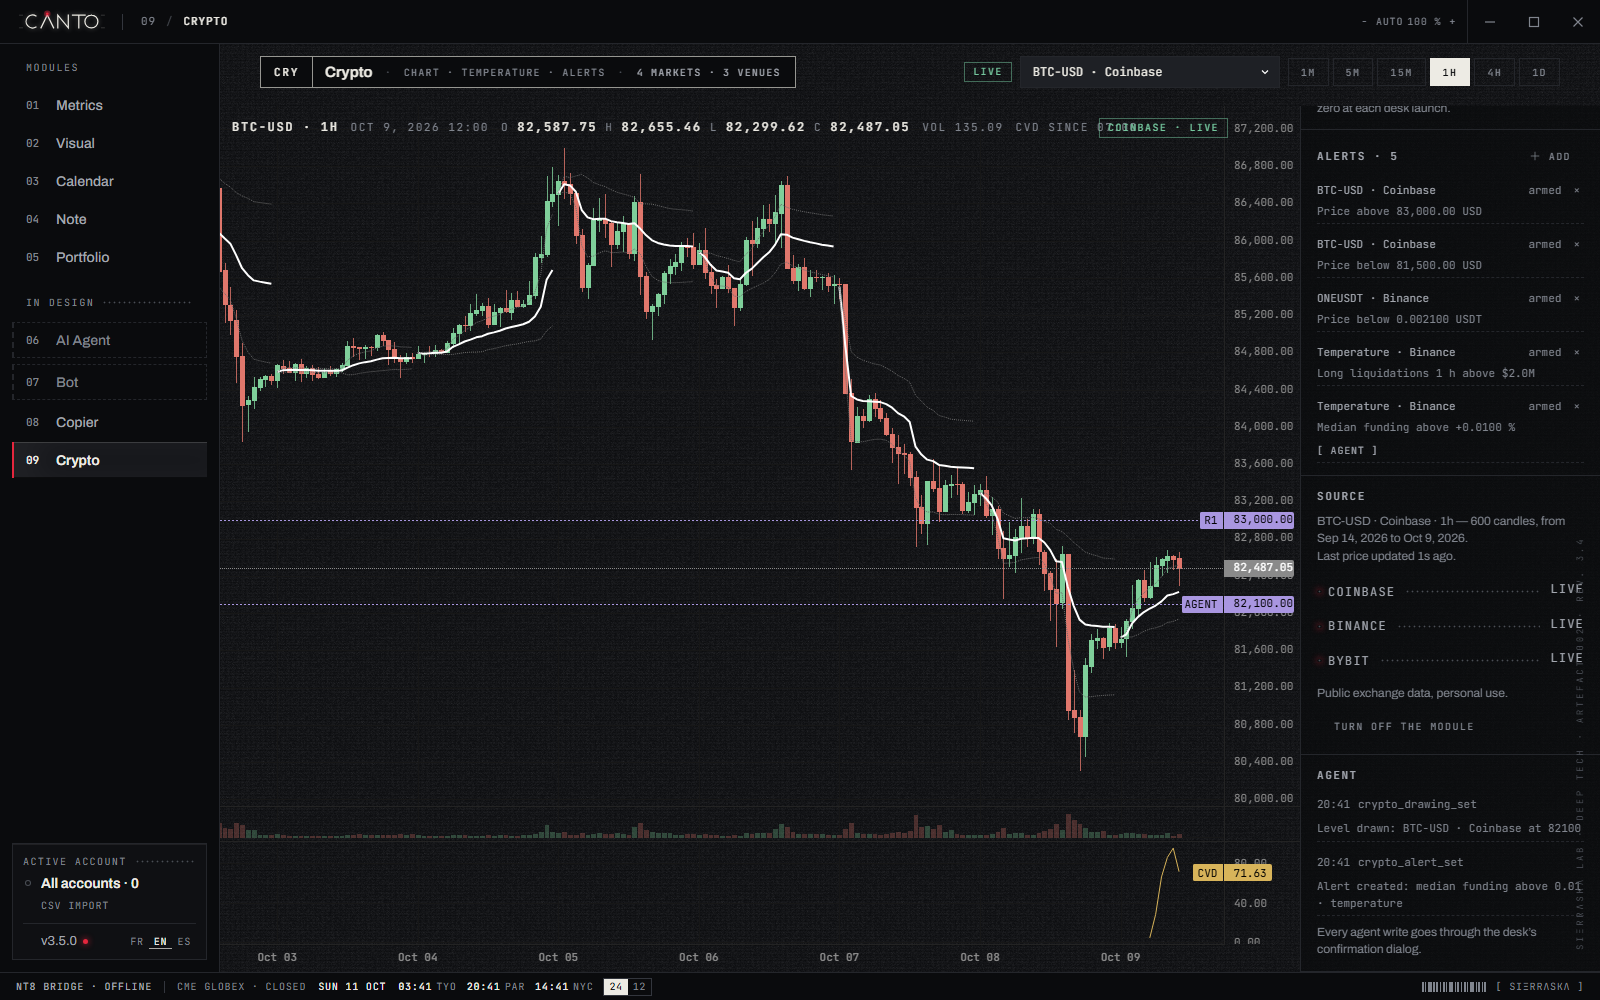
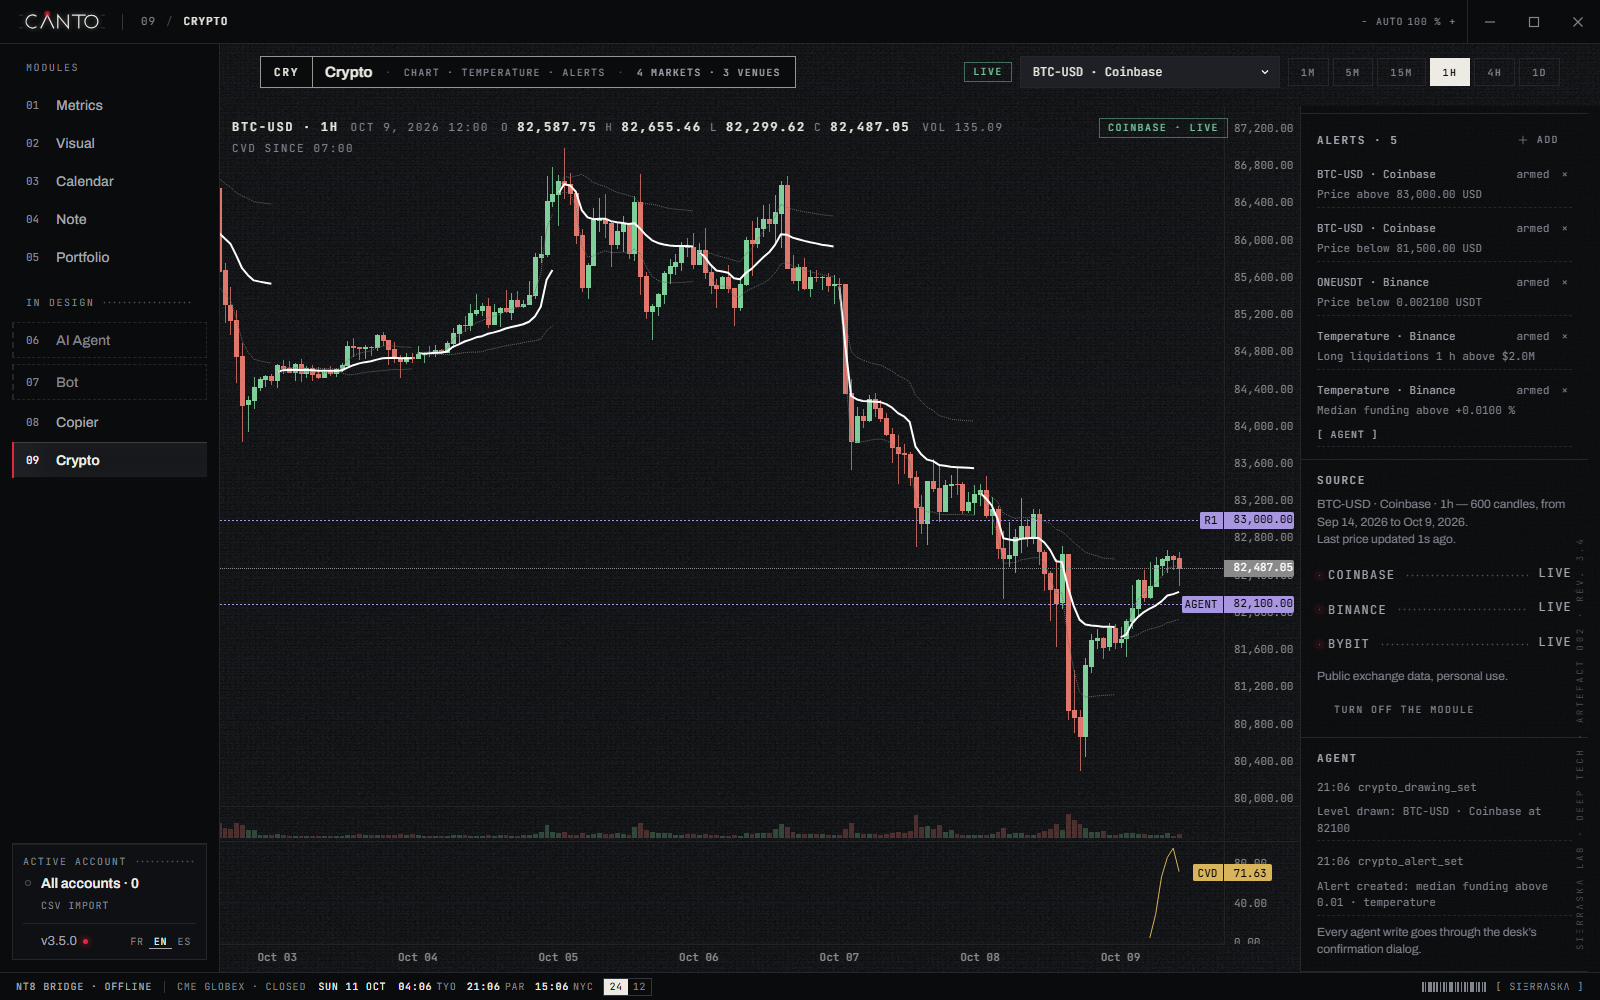
CRY4.4 faire tenir la légende et la colonne crypto dans la capture

diff --git a/tests/crypto-module.test.ts b/tests/crypto-module.test.ts
@@ -78,6 +78,8 @@ vi.mock('@/modules/visual/Chart', () => ({
 }));
 
 import { CHARTABLE_MARKETS, CRYPTO_MARKETS } from '@/engine/crypto/markets';
+import p from '@/design/primitives.module.css';
+import c from '@/modules/crypto/crypto.module.css';
 import { useI18n } from '@/i18n';
 import { fmtPrice } from '@/lib/format';
 import Crypto from '@/modules/crypto/Crypto';
@@ -175,6 +177,9 @@ function section(node: HTMLElement, title: string): HTMLElement {
   if (!head?.parentElement) throw new Error(`section « ${title} » introuvable`);
   return head.parentElement;
 }
+
+/** Les `Regle` d'une section : [libellé, valeur] (`<span>libellé</span><i /><span>valeur</span>`). */
+const rules = (el: HTMLElement): [string, string][] => [...el.querySelectorAll(`.${p.regle}`)].map((r) => [r.children[0]?.textContent ?? '', r.children[2]?.textContent ?? '']);
 
 const legend = (node: HTMLElement): string => node.querySelector(`.${v.legend}`)?.textContent ?? '';
 const stamp = (node: HTMLElement): string => node.querySelector(`.${v.stamp}`)?.textContent ?? '';
@@ -282,6 +287,24 @@ describe('CRY4.3 › chart et légende', () => {
     expect(legend(node)).not.toContain('CVD Binance');
     await set({ indicators: [...useCrypto.getState().indicators, instance('i_bin', 'cvd-binance')] });
     expect(legend(node)).toContain('CVD Binance');
+  });
+
+  it('ancrage du CVD : sur la deuxième ligne de la légende, jamais sur la première, que la puce recouvre', async () => {
+    const node = await mount({ bars: btcBars, cvdAnchoredAt: T0 + 3600 });
+    await set({ indicators: [...useCrypto.getState().indicators, instance('i_bin', 'cvd-binance')] });
+    const main = node.querySelector(`.${v.legendMain}`) as HTMLElement;
+    const rows = [...node.querySelectorAll(`.${v.legendRow}`)];
+    expect(main.textContent).toContain('BTC-USD · 1h');
+    expect(main.textContent).not.toContain('CVD');
+    expect(rows).toHaveLength(1);
+    expect(rows[0]?.textContent).toContain('CVD depuis 10:00');
+    expect(rows[0]?.textContent).toContain('CVD Binance');
+    expect(main.nextElementSibling).toBe(rows[0]);
+  });
+
+  it('ancrage du CVD : sans ancre ni CVD Binance, la légende n’a pas de deuxième ligne', async () => {
+    const node = await mount({ bars: btcBars });
+    expect(node.querySelectorAll(`.${v.legendRow}`)).toHaveLength(0);
   });
 
   it('un code du process principal s’affiche en clair, jamais seul', async () => {
@@ -446,7 +469,7 @@ describe('CRY4.3 › colonne', () => {
     expect(useCrypto.getState().market).toBe(ONE);
   });
 
-  it('température : une règle par lecture, et le minorant des liquidations écrit', async () => {
+  it('température : une règle par lecture, par côté des liquidations et par actif de l’open interest, et le minorant écrit', async () => {
     const now = Date.now();
     const temperature: TemperatureReading = {
       funding: { median: 0.00003, btc: 0.0001, symbols: 300, at: now },
@@ -455,13 +478,41 @@ describe('CRY4.3 › colonne', () => {
       openInterest: { btc: 0.024, eth: -0.011, at: now },
     };
     const node = await mount({ temperature });
-    const text = section(node, 'Température').textContent ?? '';
-    expect(text).toContain('Funding médian');
-    expect(text).toContain('+0,0030 %');
-    expect(text).toContain('38 %');
-    expect(text).toMatch(/L 4,1 M\$ · S 1,2 M\$/);
-    expect(text).toMatch(/BTC \+2,4 %/);
-    expect(text).toMatch(/minorant/);
+    const side = section(node, 'Température');
+    expect(rules(side)).toEqual([
+      ['Funding médian', '+0,0030 %'],
+      ['Largeur 24 h', '38 %'],
+      ['Liq. 1 h · long', '4,1 M$'],
+      ['Liq. 1 h · short', '1,2 M$'],
+      ['OI 24 h · BTC', '+2,4 %'],
+      ['OI 24 h · ETH', '-1,1 %'],
+    ]);
+    expect(side.textContent).toMatch(/minorant/);
+    // Sans lecture : les six règles restent, avec des tirets.
+    await set({ temperature: null });
+    expect(rules(section(node, 'Température')).map(([, value]) => value)).toEqual(['—', '—', '—', '—', '—', '—']);
+  });
+
+  it('chaque règle de la colonne tient sur une ligne : 24 signes au plus, libellé et valeur, en trois langues', async () => {
+    // Colonne de 240 à 255 px (300 moins le filet, deux marges de 16, la bande de 12 de la plaque, et 0 à 15 de barre de
+    // défilement), règle en 12 px mono : 8,4 px par signe et deux intervalles de 10 px. 24 signes laissent au moins 18 px au
+    // filet pointillé (mesuré dans le navigateur). Les valeurs sont les plus longues attendues.
+    const now = Date.now();
+    const temperature: TemperatureReading = {
+      funding: { median: -0.000125, btc: -0.0001, symbols: 300, at: now },
+      breadth: { upShare: 1, pairs: 400, at: now },
+      liquidations: { long: 123_400_000, short: 612_000, since: now - 3_600_000, at: now, lowerBound: true },
+      openInterest: { btc: 0.123, eth: -0.123, at: now },
+    };
+    const node = await mount({ temperature, venues: { coinbase: 'reconnecting', binance: 'reconnecting', bybit: 'reconnecting' } });
+    for (const locale of ['fr', 'en', 'es'] as const) {
+      await act(async () => useI18n.setState({ locale }));
+      const temp = rules(section(node, locale === 'fr' ? 'Température' : locale === 'en' ? 'Temperature' : 'Temperatura'));
+      const source = rules(section(node, locale === 'es' ? 'Fuente' : 'Source'));
+      expect(temp, locale).toHaveLength(6);
+      expect(source, locale).toHaveLength(3);
+      for (const [label, value] of [...temp, ...source]) expect(label.length + value.length, `${locale} : ${label} · ${value}`).toBeLessThanOrEqual(24);
+    }
   });
 
   it('Source : venues et leurs voyants, données publiques, « Éteindre le module » appelle disable puis l’état vide', async () => {
@@ -483,6 +534,16 @@ describe('CRY4.3 › colonne', () => {
     expect(text).toContain('14:05');
     expect(text).toContain('crypto_alert_set');
     expect(text).toContain('Alerte créée');
+  });
+
+  it('Agent : l’effet occupe toute la largeur et se coupe n’importe où, un mot long ne fait pas défiler la colonne', async () => {
+    const effect = 'Niveau tracé : BTC-USD · Coinbase à Résistance_hebdomadaire_très_longue_sans_espace_82100.123456789';
+    const node = await mount({ agentLog: [{ at: Date.now(), tool: 'crypto_drawing_set', effect }] });
+    const cell = [...section(node, 'Agent').querySelectorAll(`.${v.tradeRow} > span`)].find((el) => el.textContent === effect) as HTMLElement | undefined;
+    expect(cell, 'cellule de l’effet').toBeDefined();
+    expect(cell?.style.gridColumn).toBe('1 / -1');
+    expect(cell?.style.minWidth).toBe('0px');
+    expect(cell?.style.overflowWrap).toBe('anywhere');
   });
 });
 
@@ -668,6 +729,17 @@ describe('CRY4.3 › design', () => {
     const css = readFileSync('src/modules/crypto/crypto.module.css', 'utf8');
     expect(css).not.toContain('--lab');
     expect(css).not.toMatch(/rgba?\(/);
+  });
+
+  it('la colonne laisse libre la bande de la plaque verticale du châssis (valeurs alignées à droite, fins de ligne)', async () => {
+    // `.edge` (shell.module.css) : texte vertical à 13 px du bord droit, large de 13 px ; les sections de Visual n'ont que 16 px de marge.
+    expect(c.side, 'classe .side de crypto.module.css').toBeTruthy();
+    const node = await mount();
+    const side = node.querySelector('aside');
+    expect(side?.classList.contains(v.side as string)).toBe(true);
+    expect(side?.classList.contains(c.side as string)).toBe(true);
+    const css = readFileSync('src/modules/crypto/crypto.module.css', 'utf8');
+    expect(css).toMatch(/\.side\s*\{[^}]*padding-right:\s*12px/);
   });
 
   it('l’onglet importe la feuille de Visual, sans copie', () => {

diff --git a/src/modules/crypto/CryptoSide.tsx b/src/modules/crypto/CryptoSide.tsx
@@ -242,10 +242,11 @@ export function CryptoSide({ catalog, instances }: CryptoSideProps) {
   const liquidations = temperature?.liquidations ?? null;
   const openInterest = temperature?.openInterest ?? null;
   const at = (ms: number | undefined) => (ms === undefined ? '—' : formatTimeLocal(ms));
-  const oiText = openInterest ? `BTC ${fmtSigned(openInterest.btc === null ? null : openInterest.btc * 100, 1)} % · ETH ${fmtSigned(openInterest.eth === null ? null : openInterest.eth * 100, 1)} %` : '—';
+  /** La variation de l'open interest d'un actif sur 24 h (une part : 0,024 = +2,4 %), ou un tiret. */
+  const oiChange = (share: number | null | undefined) => (share === null || share === undefined || !Number.isFinite(share) ? '—' : `${fmtSigned(share * 100, 1)} %`);
 
   return (
-    <aside className={v.side}>
+    <aside className={cx(v.side, c.side)}>
       <div className={v.sideSection}>
         <SideTitle>
           {tr('Marchés', 'Markets', 'Mercados')} · {CHARTABLE_MARKETS.length}
@@ -283,11 +284,14 @@ export function CryptoSide({ catalog, instances }: CryptoSideProps) {
 
       <div className={v.sideSection}>
         <SideTitle>{tr('Température', 'Temperature', 'Temperatura')} · Binance</SideTitle>
+        {/* Une règle par lecture, par côté des liquidations et par actif de l'open interest : une ligne chacune, 24 signes au plus (libellé et valeur) pour la colonne. */}
         <div>
           <Regle label={tr('Funding médian', 'Median funding', 'Funding mediano')} value={funding ? `${fmtSigned(funding.median * 100, 4)} %` : '—'} />
           <Regle label={tr('Largeur 24 h', '24 h breadth', 'Amplitud 24 h')} value={breadth ? `${fmtNum(breadth.upShare * 100, 0)} %` : '—'} />
-          <Regle label={tr('Liquidations 1 h', '1 h liquidations', 'Liquidaciones 1 h')} value={liquidations ? `L ${fmtUsdCompact(liquidations.long)} · S ${fmtUsdCompact(liquidations.short)}` : '—'} />
-          <Regle label={tr('Open interest 24 h', '24 h open interest', 'Open interest 24 h')} value={oiText} />
+          <Regle label={tr('Liq. 1 h · long', 'Liq. 1 h · long', 'Liq. 1 h · long')} value={liquidations ? fmtUsdCompact(liquidations.long) : '—'} />
+          <Regle label={tr('Liq. 1 h · short', 'Liq. 1 h · short', 'Liq. 1 h · short')} value={liquidations ? fmtUsdCompact(liquidations.short) : '—'} />
+          <Regle label={tr('OI 24 h · BTC', 'OI 24 h · BTC', 'OI 24 h · BTC')} value={oiChange(openInterest?.btc)} />
+          <Regle label={tr('OI 24 h · ETH', 'OI 24 h · ETH', 'OI 24 h · ETH')} value={oiChange(openInterest?.eth)} />
         </div>
         <div className={v.desc}>
           {tr(
@@ -378,7 +382,7 @@ export function CryptoSide({ catalog, instances }: CryptoSideProps) {
             <div key={`${line.at}-${i}`} className={v.tradeRow}>
               <span>{formatTimeLocal(line.at)}</span>
               <span>{line.tool}</span>
-              <span style={{ gridColumn: '1 / -1' }}>{line.effect}</span>
+              <span style={{ gridColumn: '1 / -1', minWidth: 0, overflowWrap: 'anywhere' }}>{line.effect}</span>
             </div>
           ))
         )}

diff --git a/src/modules/crypto/Crypto.tsx b/src/modules/crypto/Crypto.tsx
@@ -221,6 +221,8 @@ function CryptoDesk({ meta }: { meta: string }) {
   const shownBar = hover?.bar ?? bars[bars.length - 1] ?? null;
   const visible = (definitionId: string) => shown.some((inst) => inst.visible && inst.definitionId === definitionId);
   const cvdBinance = visible(CVD_BINANCE);
+  /** L'heure d'ancrage du CVD, quand la ligne est visible et qu'elle s'ancre (Coinbase et Bybit, première bougie vue en entier). */
+  const cvdSince = cvdAnchoredAt !== null && visible(CVD) ? formatTimeLocal(cvdAnchoredAt * 1000) : null;
   /** La valeur d'une ligne au survol : à la précision du marché pour un prix (et l'ATR, en unité de prix), en volume sinon. */
   const lineValue = (key: string, value: number) => {
     const line = lines.find((l) => l.key === key);
@@ -271,9 +273,14 @@ function CryptoDesk({ meta }: { meta: string }) {
                     <span>Vol {fmtVolume(shownBar.volume)}</span>
                   </>
                 )}
-                {cvdAnchoredAt !== null && visible(CVD) && <span>{tr(`CVD depuis ${formatTimeLocal(cvdAnchoredAt * 1000)}`, `CVD since ${formatTimeLocal(cvdAnchoredAt * 1000)}`, `CVD desde ${formatTimeLocal(cvdAnchoredAt * 1000)}`)}</span>}
-                {cvdBinance && <span>{tr('CVD Binance', 'CVD Binance', 'CVD Binance')}</span>}
               </div>
+              {/* L'ancrage du CVD vit sur la deuxième ligne, comme les valeurs au survol : la première ligne, déjà longue, passerait sous la puce. */}
+              {(cvdSince !== null || cvdBinance) && (
+                <div className={v.legendRow}>
+                  {cvdSince !== null && <span>{tr(`CVD depuis ${cvdSince}`, `CVD since ${cvdSince}`, `CVD desde ${cvdSince}`)}</span>}
+                  {cvdBinance && <span>{tr('CVD Binance', 'CVD Binance', 'CVD Binance')}</span>}
+                </div>
+              )}
               {hover && hover.values.length > 0 && (
                 <div className={v.legendRow}>
                   {hover.values

diff --git a/src/modules/crypto/crypto.module.css b/src/modules/crypto/crypto.module.css
@@ -3,6 +3,15 @@
  * `tradeRow`) vient de `../visual/visual.module.css`. Même grain que `tradeRow` (mono 11, filet pointillé), en jetons.
  */
 
+/*
+ * La colonne laisse libre, à droite, la bande de la plaque verticale du châssis (`.edge`, shell.module.css : texte à 13 px du
+ * bord, large de 13 px). Les sections de Visual n'ont que 16 px de marge : leurs valeurs alignées à droite (« +0.0081 % »,
+ * « LIVE ») et les fins de ligne passeraient sous la plaque. 12 px de plus, filets compris, les arrêtent avant elle.
+ */
+.side {
+  padding-right: 12px;
+}
+
 /* Une ligne par marché, sur deux rangs : voyant, symbole et venue | dernier prix ; âge de la mise à jour | variation 24 h. */
 .marketRow {
   display: grid;
